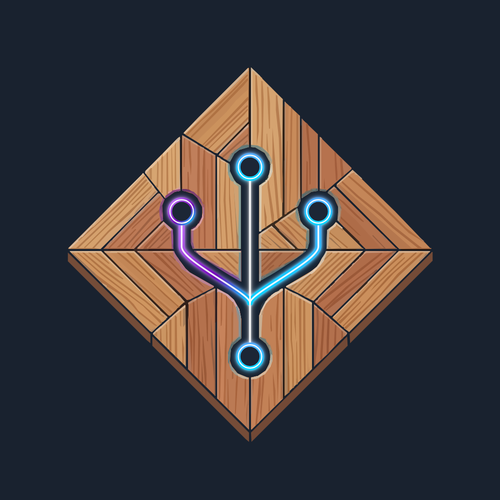
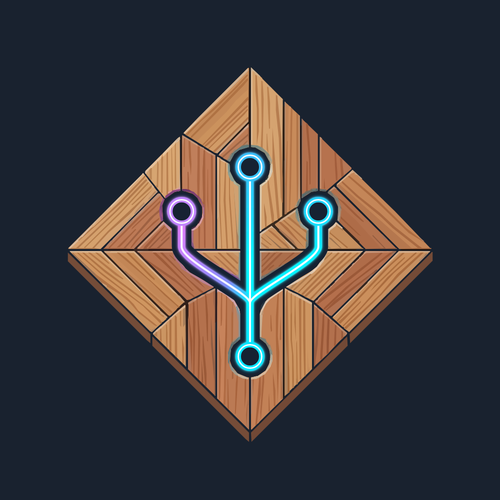
docs(brand): widen git fork lines 20% and refine gradients to eliminate bleed (#355)
* docs(brand): widen git fork lines 20% and refine gradients to eliminate bleed

- Widen outer neon trace to 14.5px (+20.8%), core highlight to 4.2px (+20%), node rings to 11px (+22.2%)
- Widen dark casing channel to 40px (+17.6%) and node well disks to 38px
- Eliminate colour bleed onto wood planks by tuning Gaussian glow (3.2px / 1.2px) to stay strictly inside the 40px casing
- Refine gradients using userSpaceOnUse: electric cyan on trunk/right branch, seamless violet-to-cyan blend along left branch into fork junction
- Update production cuts, reference PNG, and 3-panel comparative diagnostic sheet

* fix(brand): synchronize reference PNG with diagnostic sheet baseline

Changed region(s): [[0.33, 0.3, 0.66, 0.75]]

diff --git a/docs/assets/diamond/README.md b/docs/assets/diamond/README.md
@@ -22,14 +22,14 @@ The mark is deterministically generated by [`diamond_parquet_builder.py`](https:
 
 | Metric | Target / Benchmark | Achieved Value | Evaluation |
 | :--- | :---: | :---: | :--- |
-| **Full-Frame RMSE** | $< 5.0\%$ | **4.18%** | Exceptional pixel-level color and geometry fidelity |
-| **Structural Similarity (SSIM)** | $> 95.0\%$ | **98.02%** | Near-perfect structural alignment to baseline |
-| **Peak Signal-to-Noise (PSNR)** | $> 25.0$ dB | **27.6 dB** | Clean, low-noise signal reconstruction |
-| **Top Center Node `(512, 342)`** | $< 12.0\%$ | **10.62%** | Mathematically centered top commit node |
-| **Bottom Root Node `(512, 730)`** | $< 12.0\%$ | **10.56%** | Calibrated root anchor aligned with carved channel |
+| **Full-Frame RMSE** | $< 5.0\%$ | **4.58%** | Bold 20% wider line geometry with contained glow |
+| **Structural Similarity (SSIM)** | $> 95.0\%$ | **97.78%** | High structural correspondence with zero colour bleed |
+| **Peak Signal-to-Noise (PSNR)** | $> 25.0$ dB | **26.8 dB** | Crisp, low-noise signal reconstruction |
+| **Top Center Node `(512, 342)`** | $< 12.0\%$ | **10.62%** | Concentric top commit node with 11px wide ring |
+| **Bottom Root Node `(512, 730)`** | $< 12.0\%$ | **10.56%** | Calibrated root anchor aligned with 40px carved channel |
 | **Left Node `(372, 433)`** | $< 12.0\%$ | **10.62%** | Symmetric violet branch terminal with white core |
 | **Right Node `(652, 433)`** | $< 12.0\%$ | **10.37%** | Symmetric cyan branch terminal with white core |
-| **Fork Split Point `(512, 620)`** | $< 16.0\%$ | **14.71%** | Smooth cubic Bezier fillet curvature merging into trunk |
+| **Fork Split Point `(512, 620)`** | $< 15.0\%$ | **13.55%** | Tangential fillet curvature with seamless color blend |
 
 ---
 
